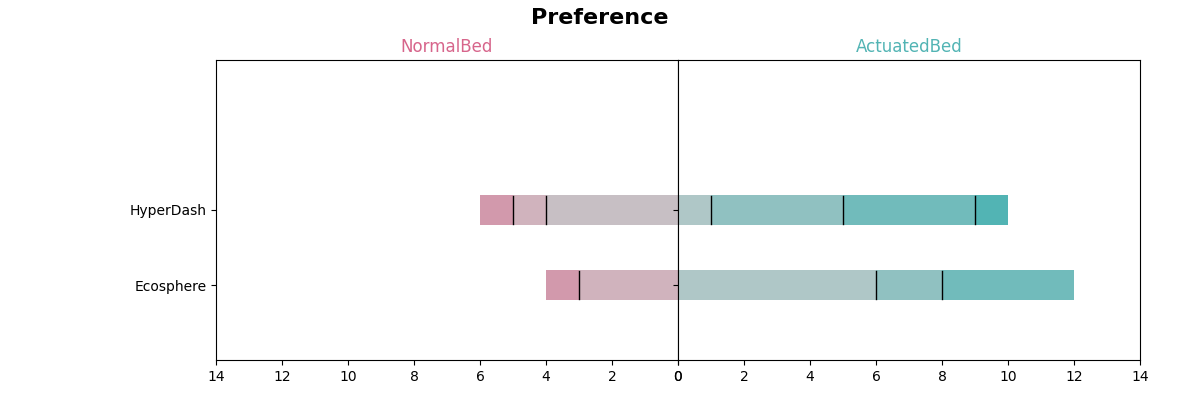
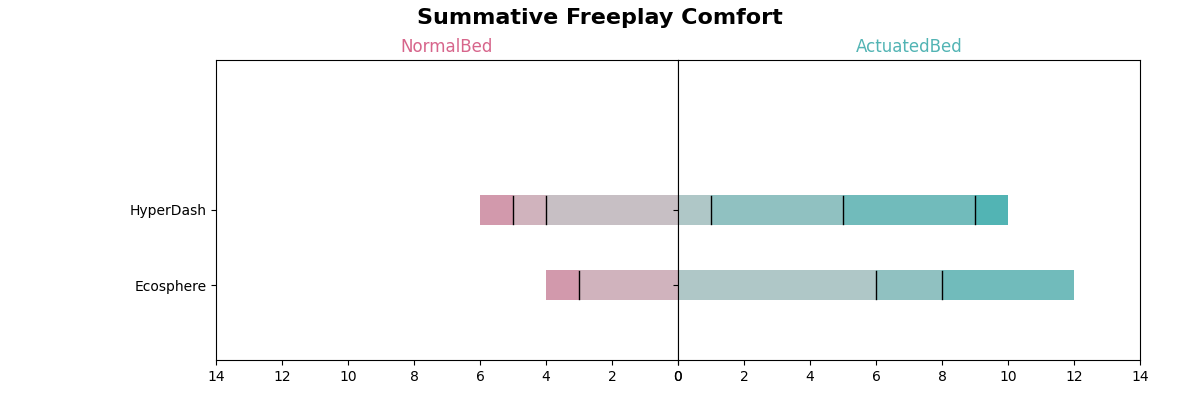
update freeplay fig title

Changed region(s): [[0.3392, 0.0, 0.6783, 0.06]]

diff --git a/Summative v2/freeplay.py b/Summative v2/freeplay.py
@@ -227,7 +227,8 @@ def draw_likert_metrics(variable_name, d):
 
     plt.ylim(-1, 3)
     plt.subplots_adjust(wspace=0, top=0.85, bottom=0.1, left=0.18, right=0.95)
-    plt.suptitle("Preference", fontsize=16, fontweight="bold")
+    fig_title = f"Summative Freeplay {variable_name}"
+    plt.suptitle(fig_title, fontsize=16, fontweight="bold")
 
     fig_path = f"{OUTPUT_DIR}/summative freeplay likert {variable_name}.png"
     plt.savefig(fig_path, transparent=False)
